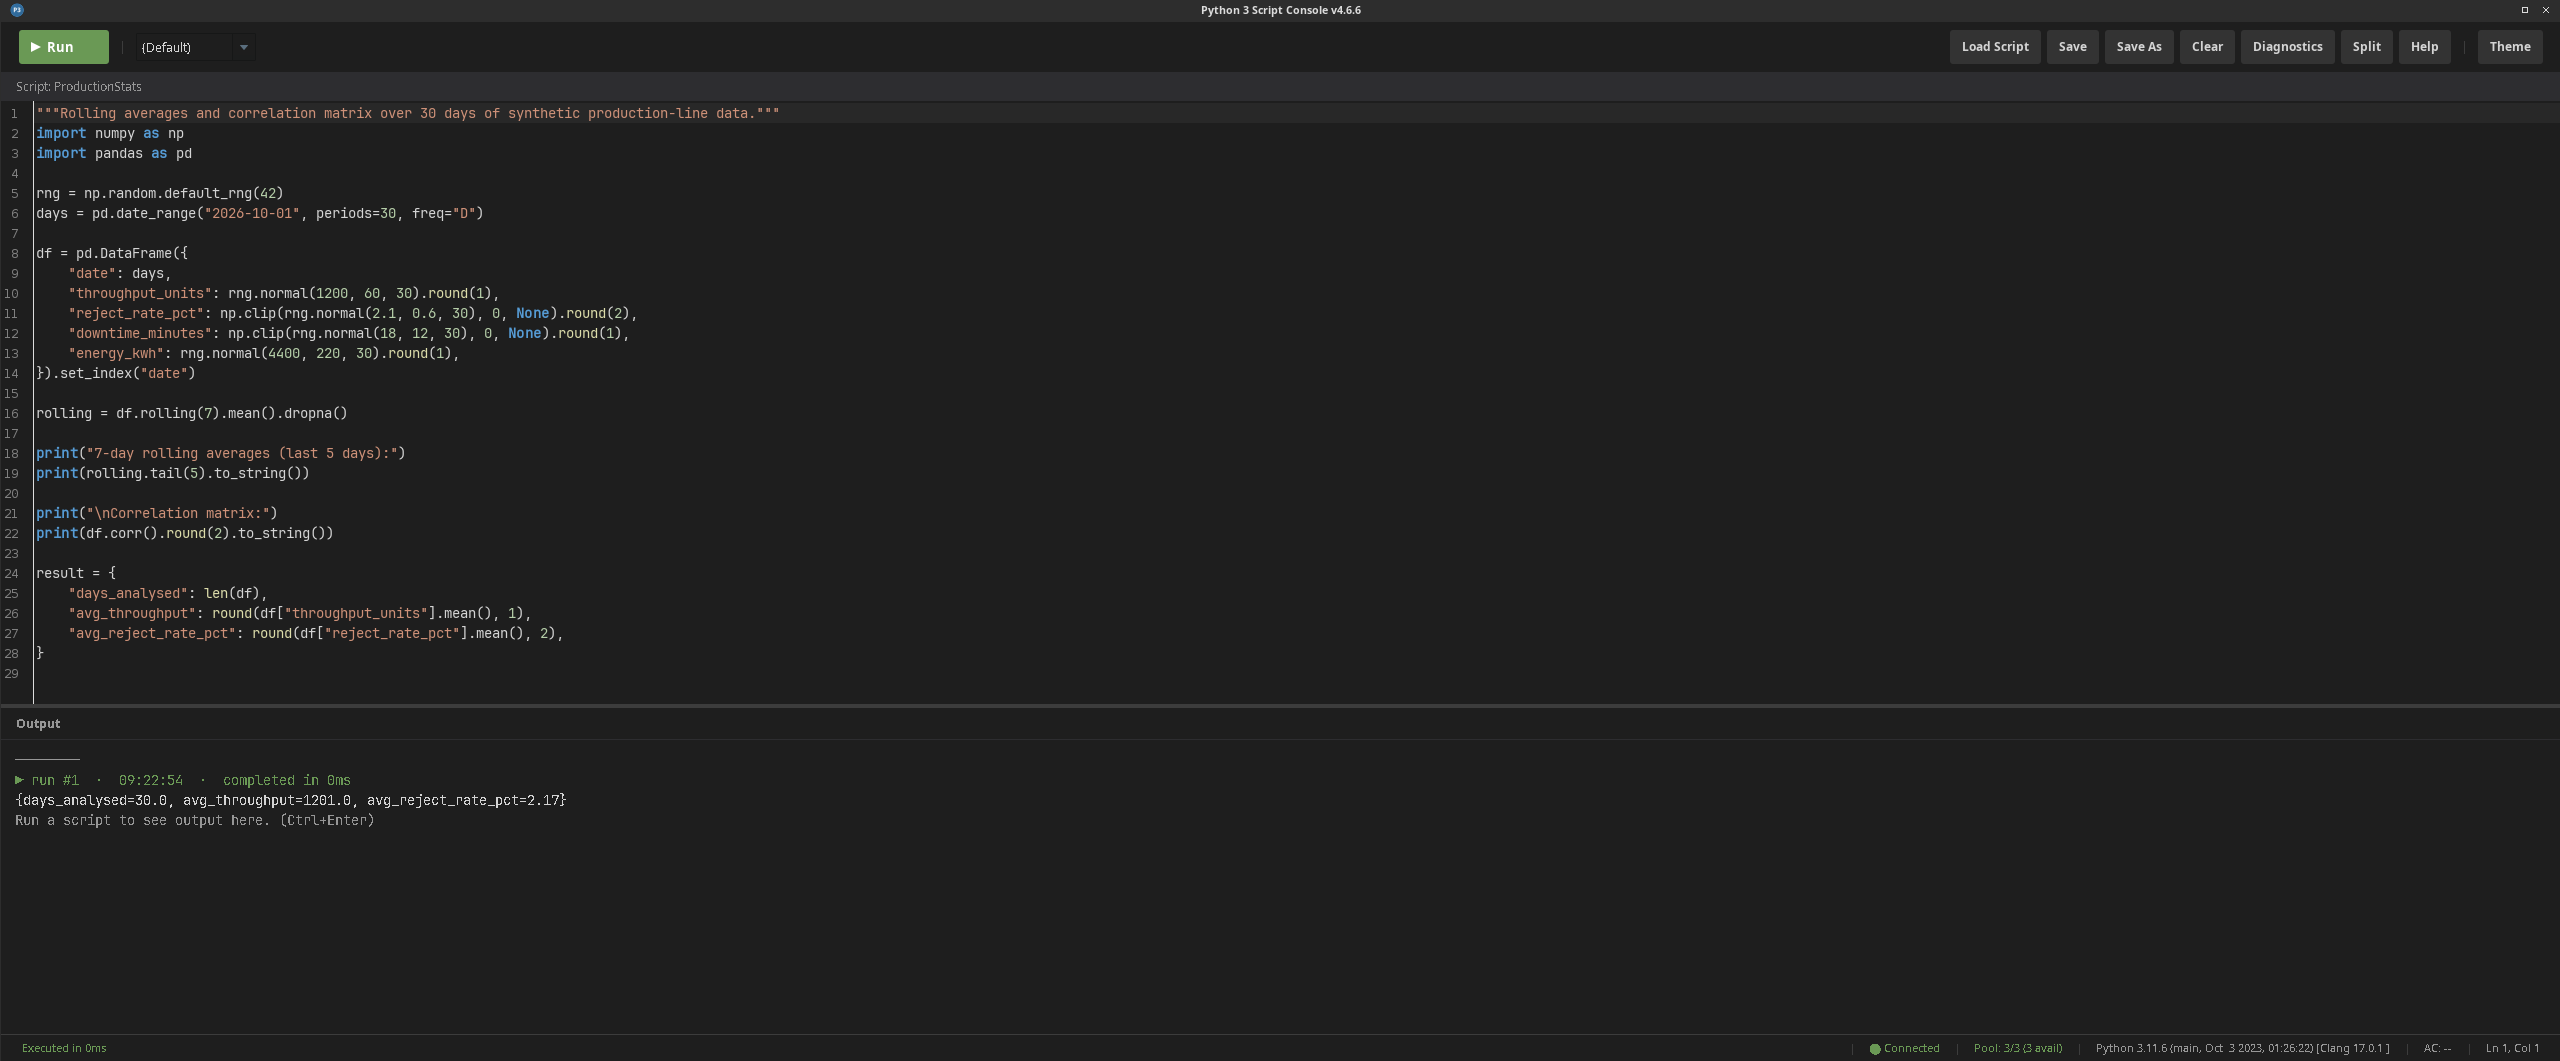
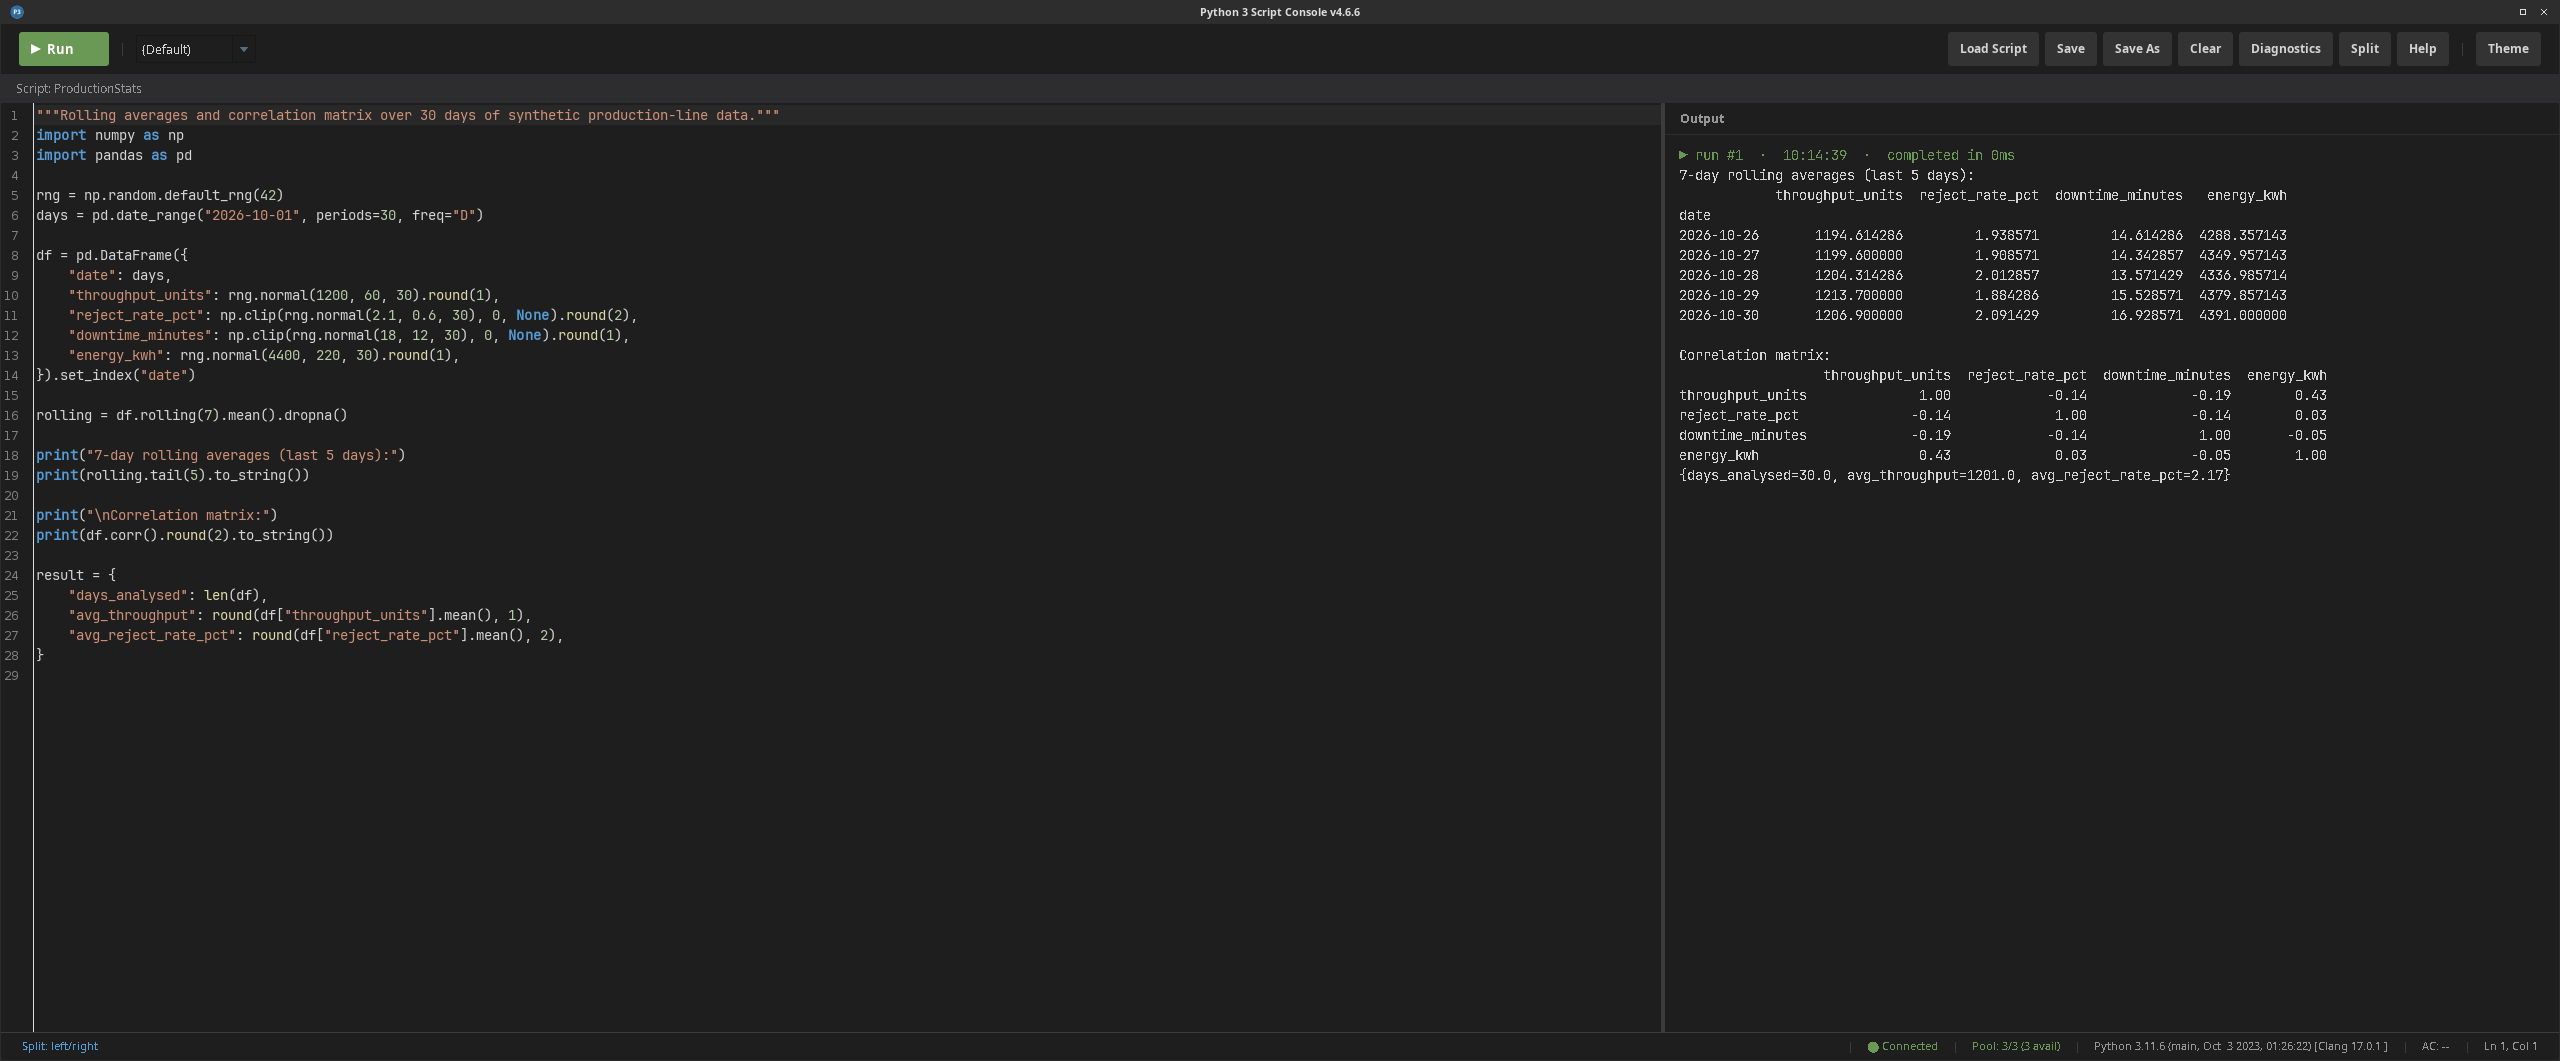
docs(readme): recapture console and diagnostics screenshots for 4.6.6

diff --git a/README.md b/README.md
@@ -30,14 +30,14 @@ release decision.
 
 ## What it looks like
 
-![The Gateway Web UI IDE running a pandas/numpy script over 30 days of synthetic production-line data, with its returned summary dict visible in the Output pane](docs/images/ide-script-editor.png)
-*The browser-based IDE: real code, run against a real warm Python 3 process, with the script's own returned result shown inline. No Designer required.*
+![The Gateway Web UI IDE with Python 3.11 selected, running a pandas/numpy script over 30 days of synthetic production-line data; the Output pane shows the printed rolling-average and correlation tables, then the returned summary dict](docs/images/ide-script-editor.png)
+*The browser-based IDE: real code, run against a real warm Python 3 process. What the script prints appears above the result it returns. No Designer required.*
 
 ![Script library tree with a Demos folder of five scripts and a Reports folder of two, ProductionStats selected and its full source and description visible](docs/images/script-library.png)
 *Scripts are organised into folders and are real files on disk — select one to see its source, description and last-modified time.*
 
-![Diagnostics view showing process pool utilisation and a live module log of real recent calls, each audit entry carrying its mode, code hash and duration](docs/images/diagnostics-view.png)
-*Diagnostics: pool utilisation and the module's own log stream — including the per-call audit trail (mode, code hash, duration) — filterable by level.*
+![Diagnostics view showing process pool utilisation, execution metrics for 57 real runs at a 23 ms average with a 0% error rate, and a live module log of recent calls](docs/images/diagnostics-view.png)
+*Diagnostics: pool utilisation, execution counts and latency, and the module's own log stream — including the per-call audit trail (mode, code hash, duration) — filterable by level.*
 
 ![Python Versions view listing Python 3.9 through 3.13, with 3.11 (the default, showing its install path), 3.12 and 3.13 installed and the rest available to install](docs/images/python-versions-view.png)
 *Multiple Python versions can be installed side by side; scripts pick which one they run against.*
@@ -45,10 +45,10 @@ release decision.
 ![Gateway dashboard showing module health as Healthy, a pool of three processes, the running Python version and real execution counts — 55 runs at a 23 ms average with no errors](docs/images/gateway-dashboard.png)
 *The landing dashboard: module health, process pool, the running Python version and execution counts at a glance.*
 
-![Designer Script Console showing the ProductionStats demo script with a completed run and result](docs/images/designer-script-editor.png)
+![Designer Script Console with the editor and Output side by side: the ProductionStats demo script on the left, and on the right run #1 with its printed tables followed by the returned result dict](docs/images/designer-script-editor.png)
 *The Designer-scope Script Console: the `ProductionStats` demo script,
 syntax-highlighted, run against the same warm process pool as the Web UI — the
-run completed and returned its result dict, shown in the Output pane.*
+Output pane shows what the run printed, then the result dict it returned.*
 
 ![Project Browser showing the module's own "Python 3 Scripts" tree node with its Demos and Reports folders expanded, and the module's own right-click context menu open over it showing New Script, New Folder, Refresh and Open Script Console — the menu covers several of the script names beneath it](docs/images/designer-project-browser-tree.png)
 *Python 3 Scripts is a first-class node in the Designer's Project Browser, not
